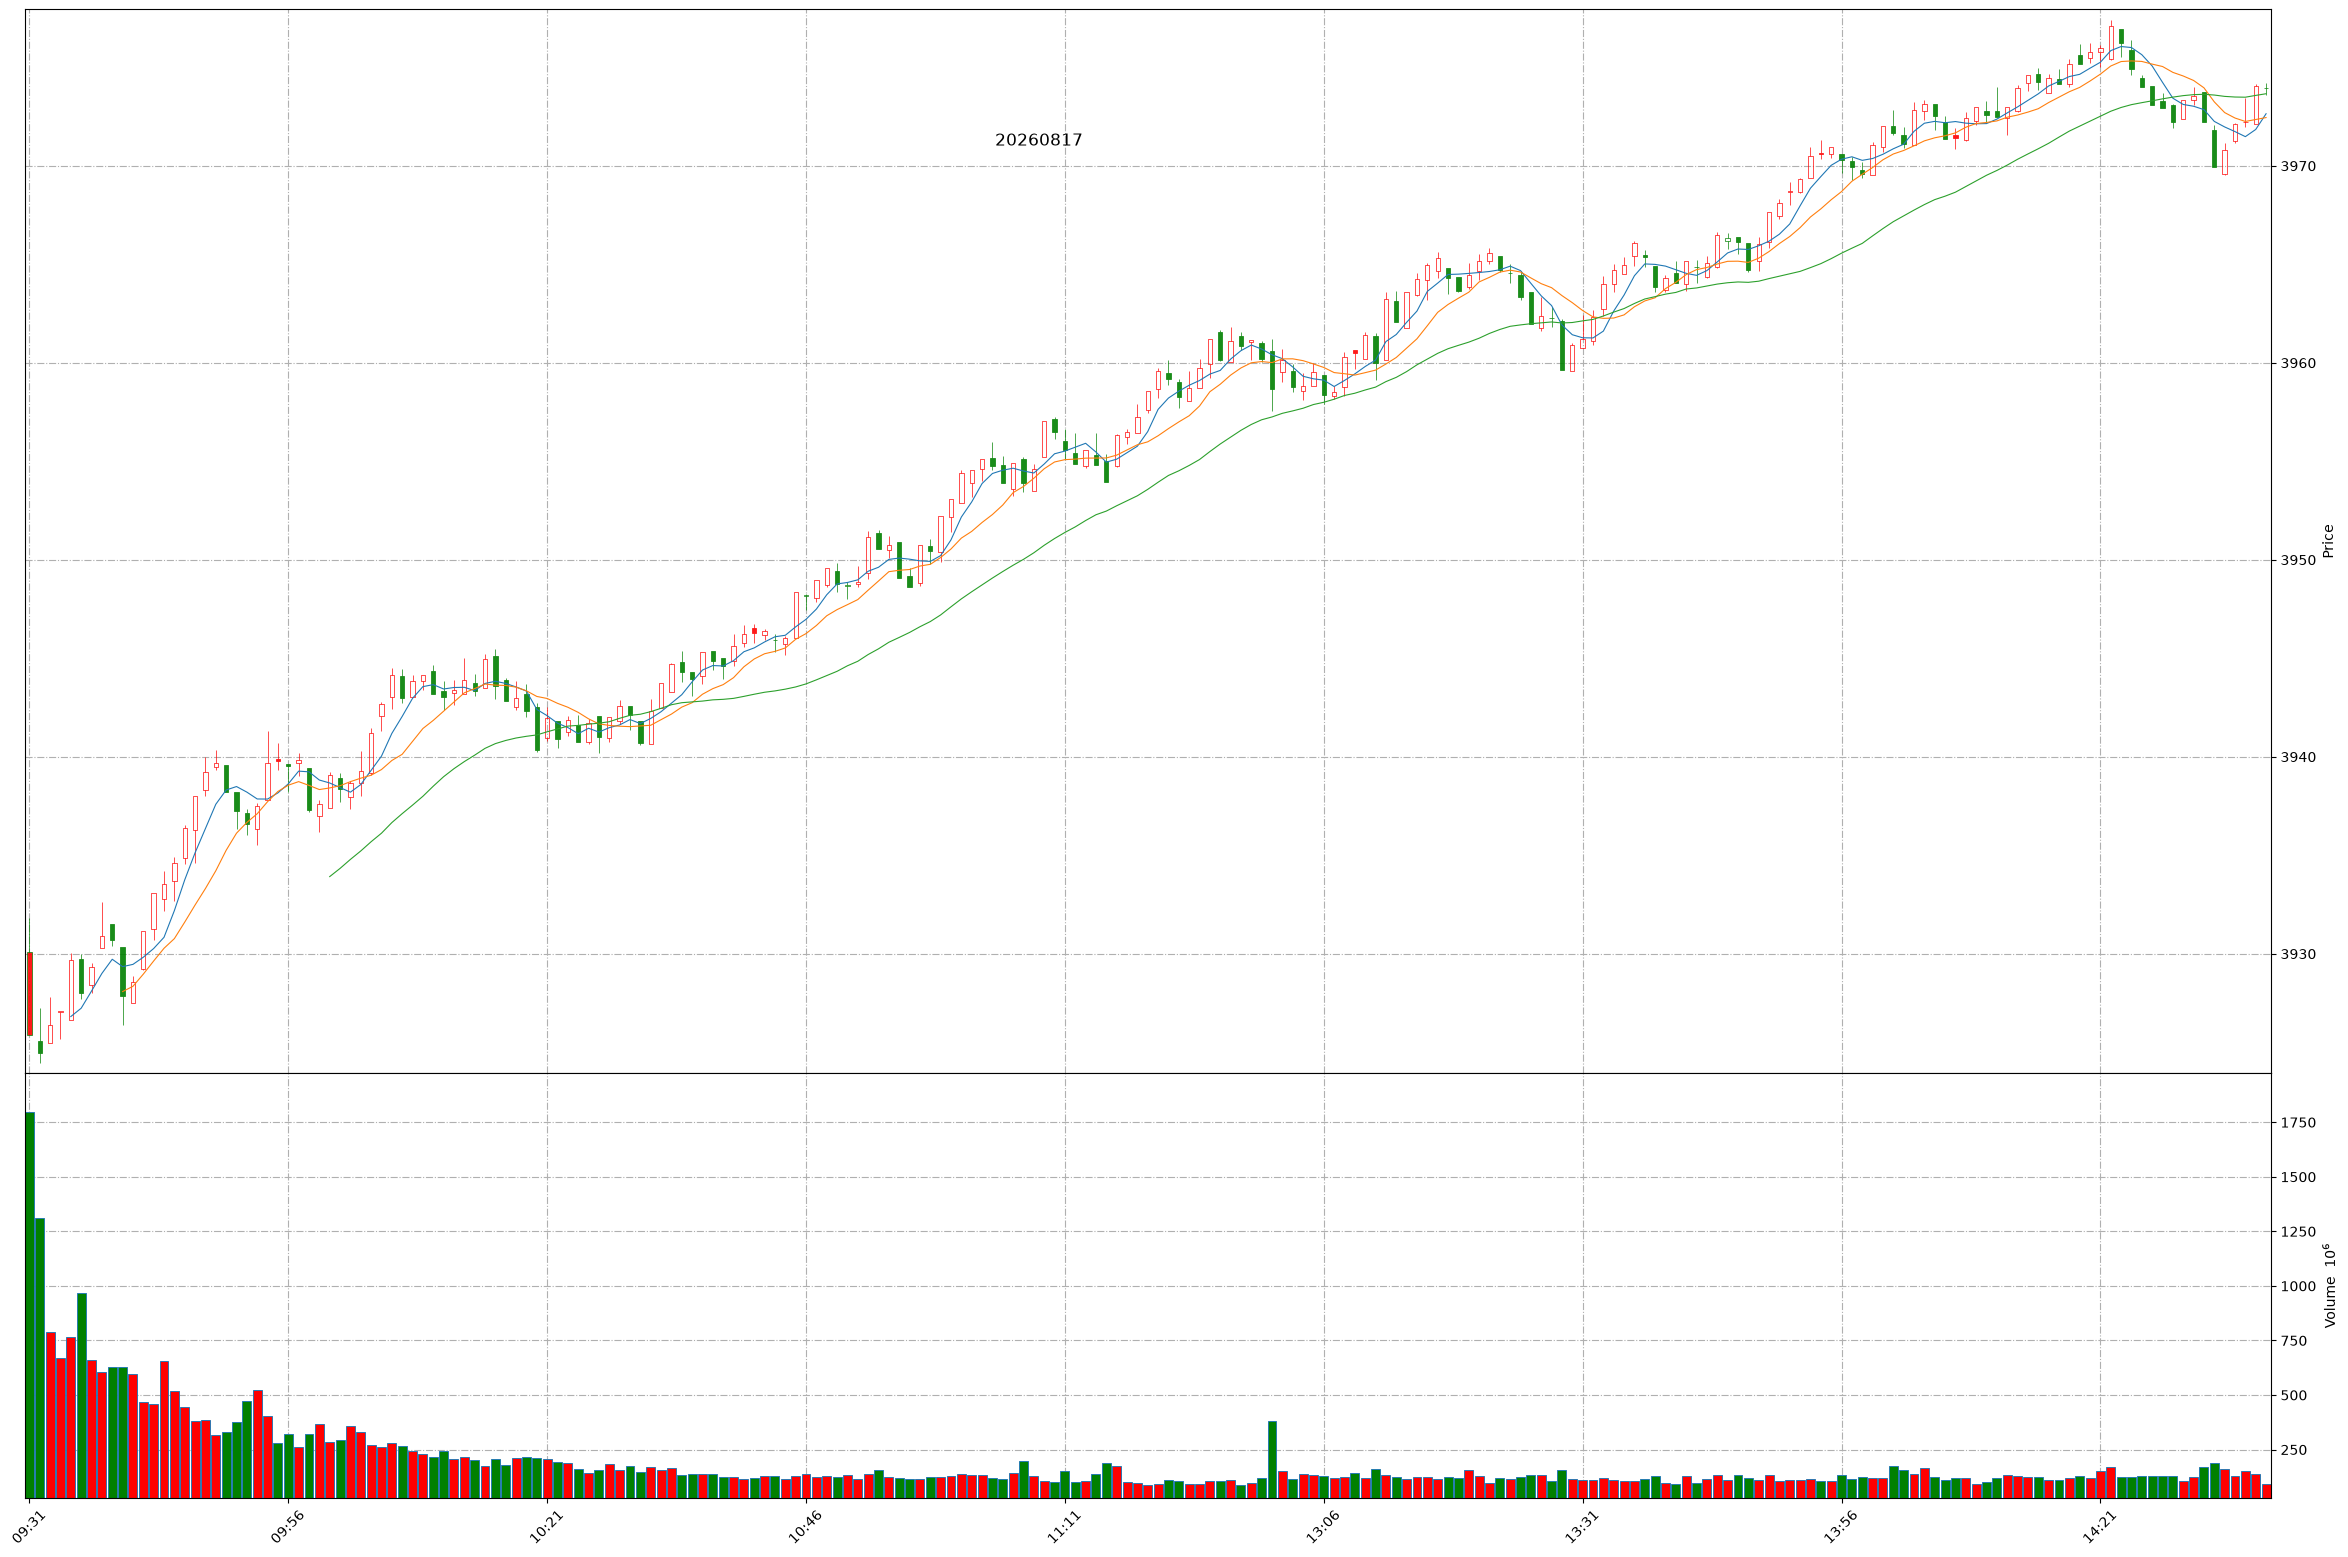
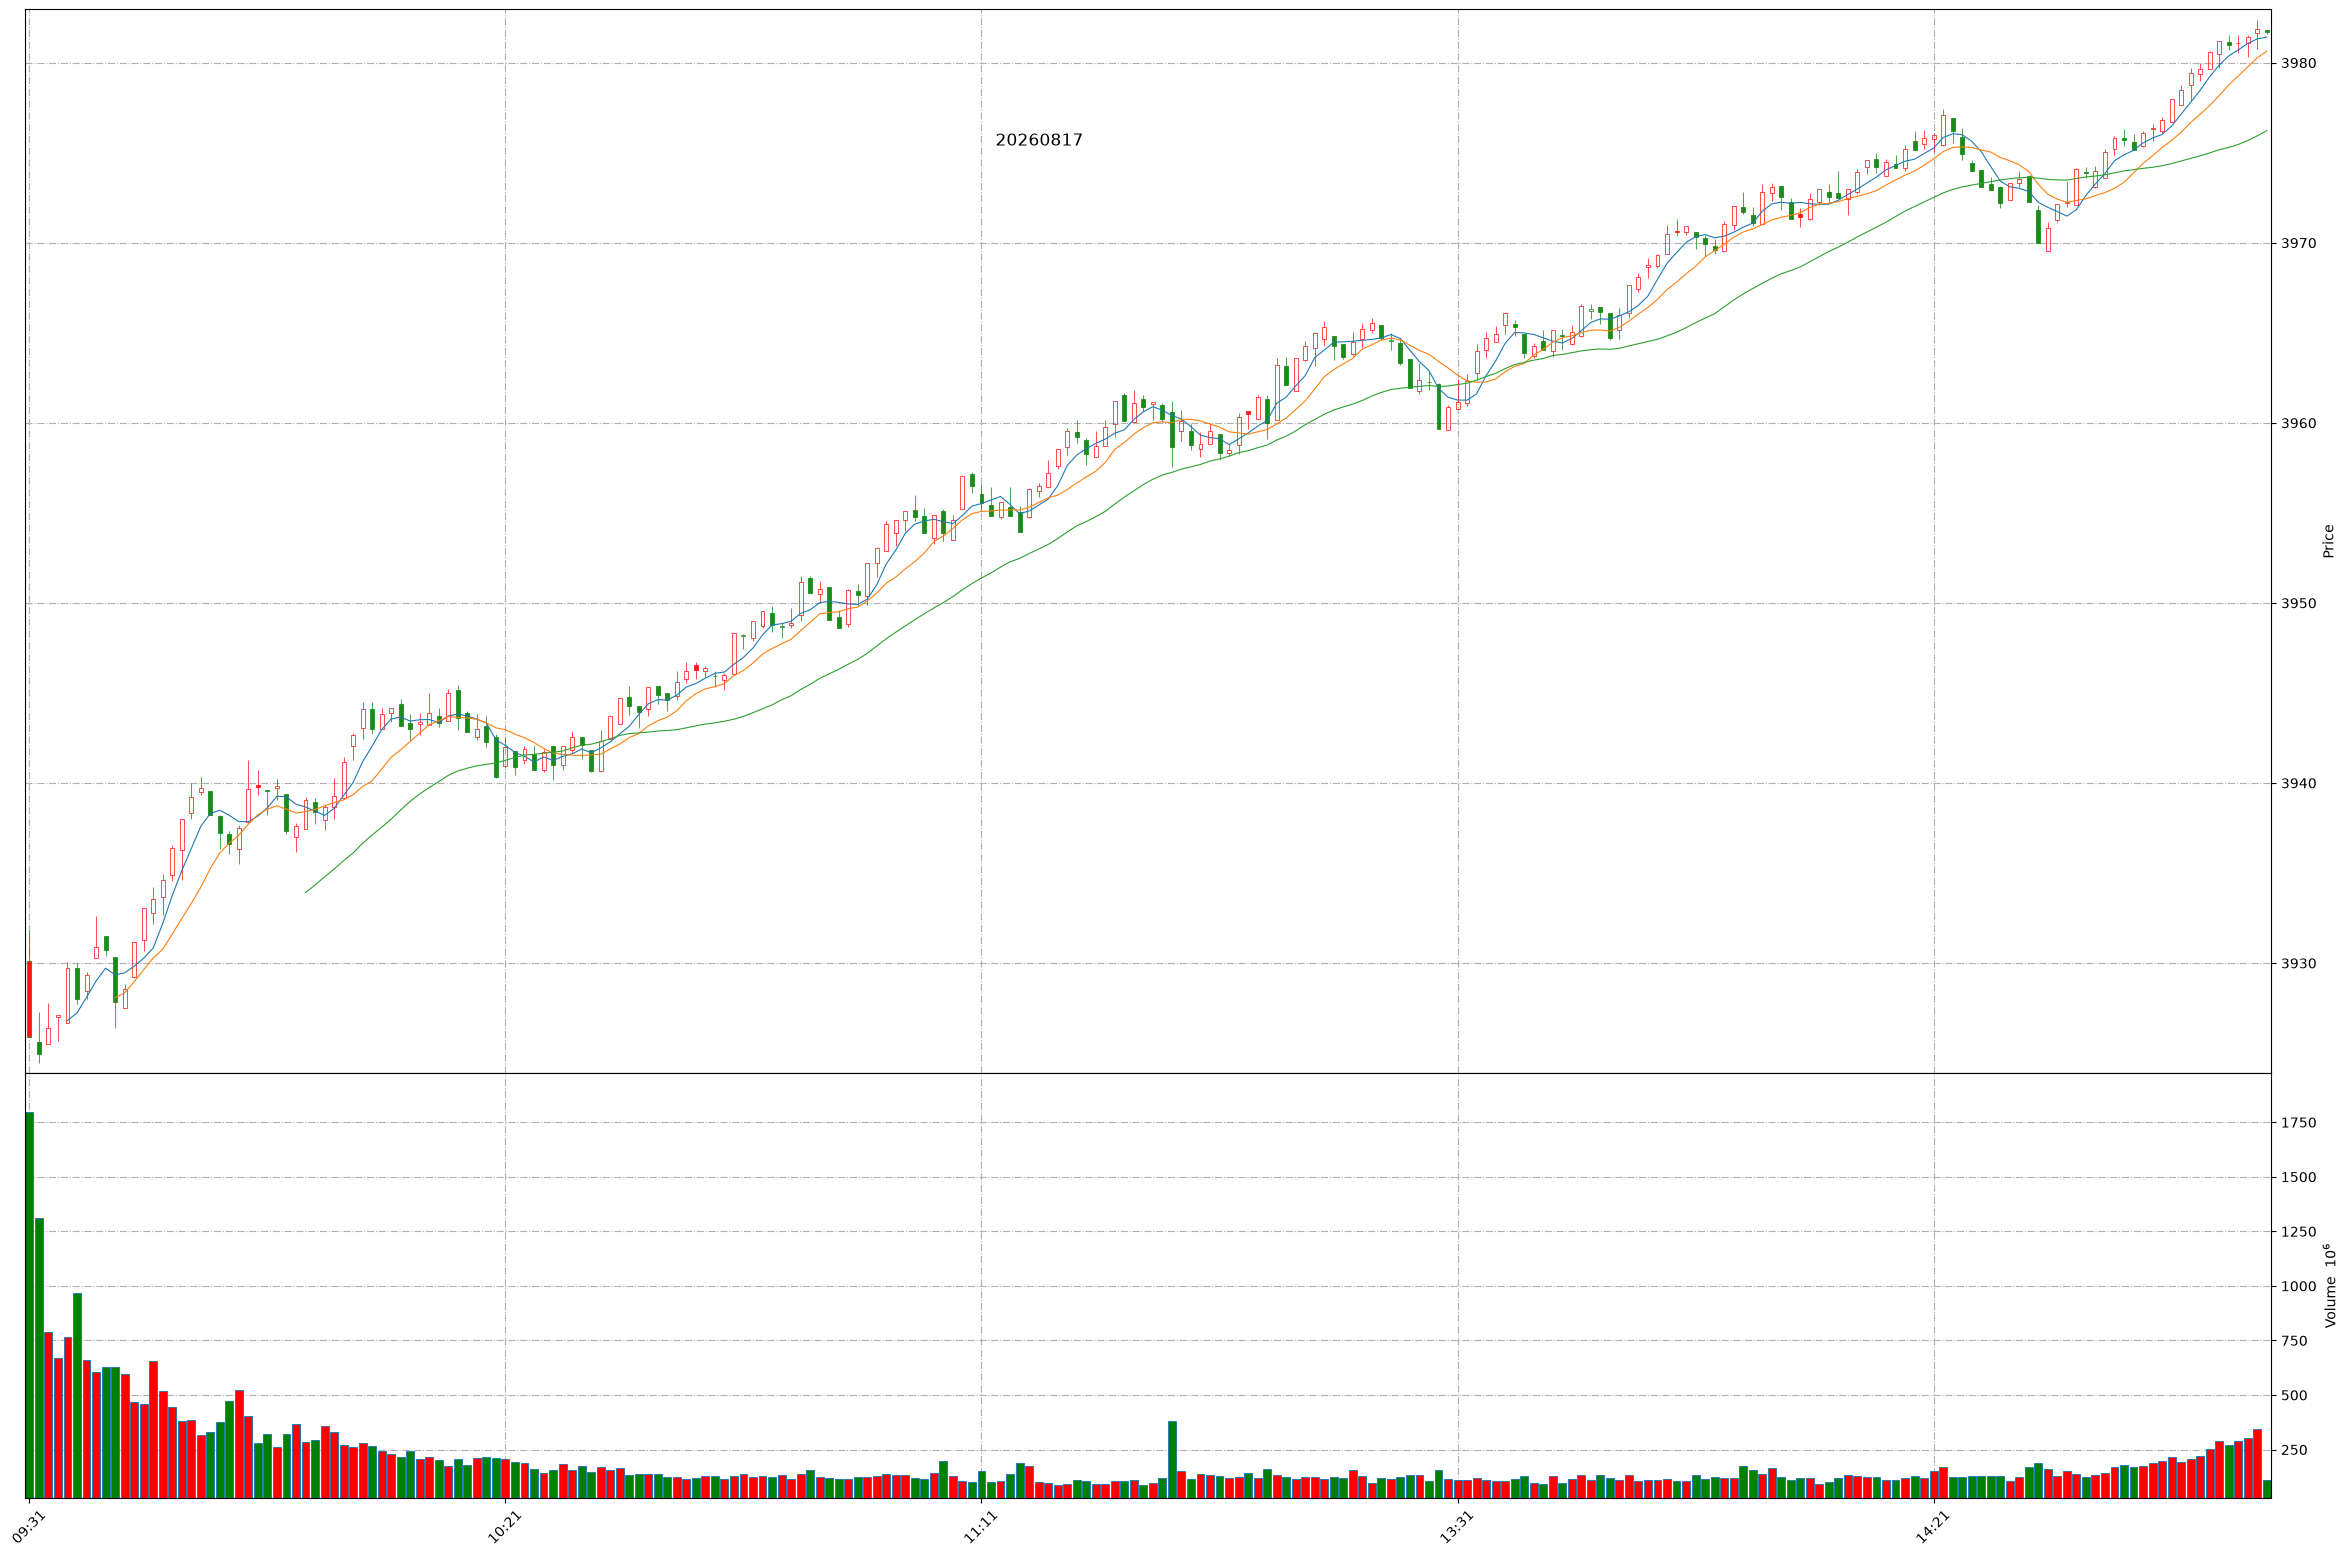
Github action update at 2026-08-17 14:55:36.

diff --git a/README.md b/README.md
@@ -1,11 +1,11 @@
 
 # Daily-A-share-market-quotes 每日 A 股指数（5min 更新）- 20260817
 
-### 上证指数 20260817 14:37
+### 上证指数 20260817 14:55
 ![](./fig/2026/8/20260817-sh000001.png)
 
-### 深证成指 20260817 14:37
+### 深证成指 20260817 14:55
 ![](./fig/2026/8/20260817-sz399001.png)
 
-### 北证50 20260817 14:37
+### 北证50 20260817 14:55
 ![](./fig/2026/8/20260817-bj899050.png)
